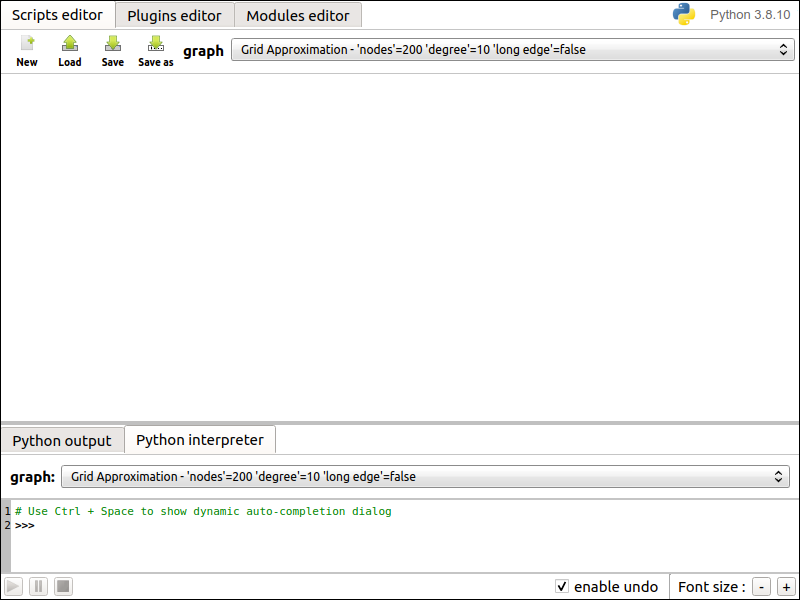
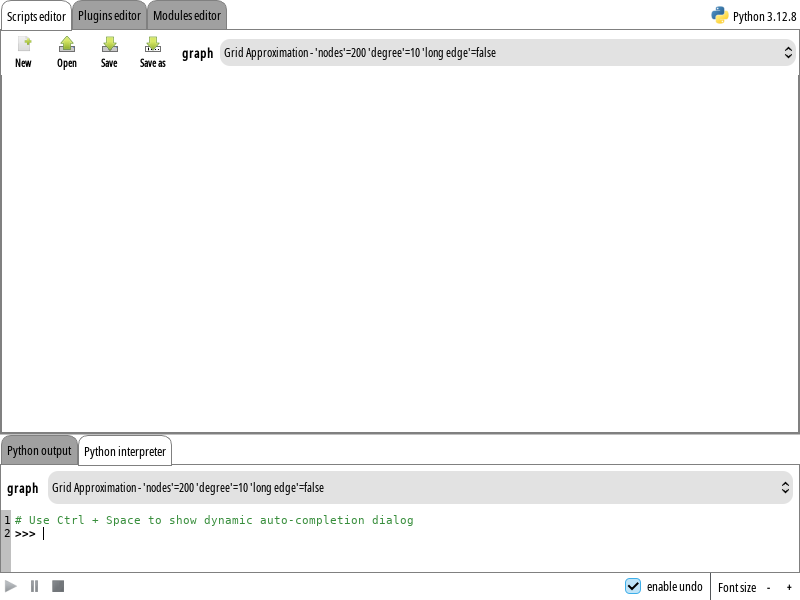
Update Python documentation and tooltips after my last comits. Partial update. Cannot update tulipPythonPlugin.png because plugins cannot be loaded (buggy regexp ?) in the Python IDE

Changed region(s): [[0.0, 0.69, 1.0, 0.9], [0.0, 0.0, 1.0, 0.15], [0.0, 0.93, 1.0, 1.0]]

diff --git a/doc/common/_static/customized.css b/doc/common/_static/customized.css
@@ -371,6 +371,10 @@ img.align-center, .figure.align-center, object.align-center {
   margin-right: auto;
 }
 
+.with-border {
+ border: 1px solid black
+}
+
 .align-left {
     text-align: left;
 }

diff --git a/doc/python/gettingstarted.rst b/doc/python/gettingstarted.rst
@@ -23,11 +23,12 @@ separated window. It can be displayed by clicking on the |icon_ide| **Python** b
 
 .. _fig1:
 .. figure:: tulipPythonIDE.png
-  :align: center
+    :class: with-border
+    :align: center
 
-  Figure 1: Screenshot of the **Python IDE** window displaying the Python interpreter.
+    Figure 1: Screenshot of the **Python IDE** window displaying the Python interpreter.
 
-The **Python interpreter** is the most basic way to dynamically interact with graph data. It enables to execute Python statements which are one after the other , read, evaluated then their result is printed. A combo box allows to select a graph from those already loaded in the Tulip GUI. The selected graph is then bound to a global Python variable named "graph".
+The **Python interpreter** is the most basic way to dynamically interact with graph data. It enables to execute Python statements which are one after the other, read, evaluated then their result is printed. A combo box allows to select a graph from those already loaded in the Tulip GUI. The selected graph is then bound to a global Python variable named "graph".
 Since Tulip 5.0, the undo feature on graph state is now handled in that component, meaning every graph modification performed by the executed Python statements can be reverted.
 
 .. |icon_run| image:: ../../library/tulip-gui/resources/icons/22/start.png
@@ -52,6 +53,7 @@ More sophisticated ways to write python code for graphs management purpose are p
 .. _fig2:
 .. figure:: tulipPythonScript.png
   :align: center
+  :class: with-border
 
   Figure 2: Screenshot of the **Scripts editor** tab in the Python IDE.
 
@@ -89,6 +91,7 @@ After choosing the command, click in the *package name* input field, type the na
 .. _fig4:
 .. figure:: tulipPythonModule.png
    :align: center
+   :class: with-border
 
    Figure 4: Screenshot of the **Modules editor** tab in the Python IDE.
 
@@ -198,7 +201,7 @@ Save your Python code in .py files
 ^^^^^^^^^^^^^^^^^^^^^^^^^^^^^^^^^^
 
 Since Tulip 6, the code of the modules, plugins, scripts, you develop using Tulip Python IDE, is non longer saved in the Tulip projects files.
-You have to explicitely load/save them from/in .py file, using the **Load**, **Save**, **Save as** buttons available with the different editors.
+You have to explicitely open/save them from/in .py file, using the **Open**, **Save**, **Save as** buttons available with the different editors.
 
 .. _usingBindingsInShell:
 
@@ -216,10 +219,9 @@ Tulip-Python modules can be easily obtained by using the pip tool for Windows, M
 
 .. important::
 
-  Please not that the ``tulipgui`` module is no more distributed on the Python
-  Packaging Index since Tulip 5.3.
-  Nevertheless, it is still available to be used use from a standard Tulip
-  installation (see next section).
+  Please not that the ``tulipgui`` module is not available on the Python
+  Packaging Index. It is solely available inside the Tulip gui to be used as a remote
+  controller for the GUI (see :mod:`tulipgui`).
 
 To install the :mod:`tulip` module, issue the following command from a terminal prompt:
 
@@ -232,9 +234,9 @@ And you're done, you can now import the modules in your Python session.
 Setting up the environment from the Tulip software installation
 ^^^^^^^^^^^^^^^^^^^^^^^^^^^^^^^^^^^^^^^^^^^^^^^^^^^^^^^^^^^^^^^^
 
-In order to be able to import the Tulip-Python modules bundled with the Tulip software installation,
-their path must be provided to Python. In the following, <tulip_install_dir> represents the root directory of a Tulip installation.
-The Tulip-Python modules are installed in the following directory according to your system :
+In order to be able to import the Tulip-Python module bundled with the Tulip software installation,
+its path must be provided to Python. In the following, <tulip_install_dir> represents the root directory of a Tulip installation.
+The Tulip-Python module is installed in the following directory according to your system:
 
         * Linux : **<tulip_install_dir>/lib/tulip/python** (if you compiled Tulip yourself,
           <tulip_install_dir> corresponds to the value of the CMake variable CMAKE_INSTALL_PREFIX)
@@ -248,17 +250,10 @@ The Tulip-Python modules are installed in the following directory according to y
 This path has to be added to the list of Python module search paths. To do so, you can add it in the **PYTHONPATH**
 environment variable prior executing the Python interpreter or add it to the :data:`sys.path` list once you launched the interpreter.
 
-.. warning::
-
-  If you installed Tulip through a bundle (.dmg) on MacOS and want to successfully import the :mod:`tulipgui` module,
-  you also need to set the following path **/Applications/Tulip-x.y.z.app/Contents/Frameworks/** as the value of the
-  environment variables **DYLD_LIBRARY_PATH** and **DYLD_FRAMEWORK_PATH**.
-
-You should now be able to import the Tulip-Python modules through the classical Python shell. Issue the following commands
+You should now be able to import the Tulip-Python module through the classical Python shell. Issue the following commands
 at the shell prompt to perform that task::
 
     >>> from tulip import tlp
-    >>> from tulipgui import tlpgui
 
 Customizing the Python environment
 ----------------------------------

diff --git a/doc/python/creatingvisualizations.rst b/doc/python/creatingvisualizations.rst
@@ -3,7 +3,7 @@
 Creating and manipulating Tulip visualizations with the :mod:`tulipgui` module
 ===============================================================================
 
-Starting the 4.4 release of Tulip, a new module called :mod:`tulipgui` is available
+Starting the 4.4 release of Tulip, a module called :mod:`tulipgui` is available
 allowing to create and manipulate Tulip views (typically node link diagram views).
 The module is usable from the Python Script editor integrated in the Tulip software GUI.
 
